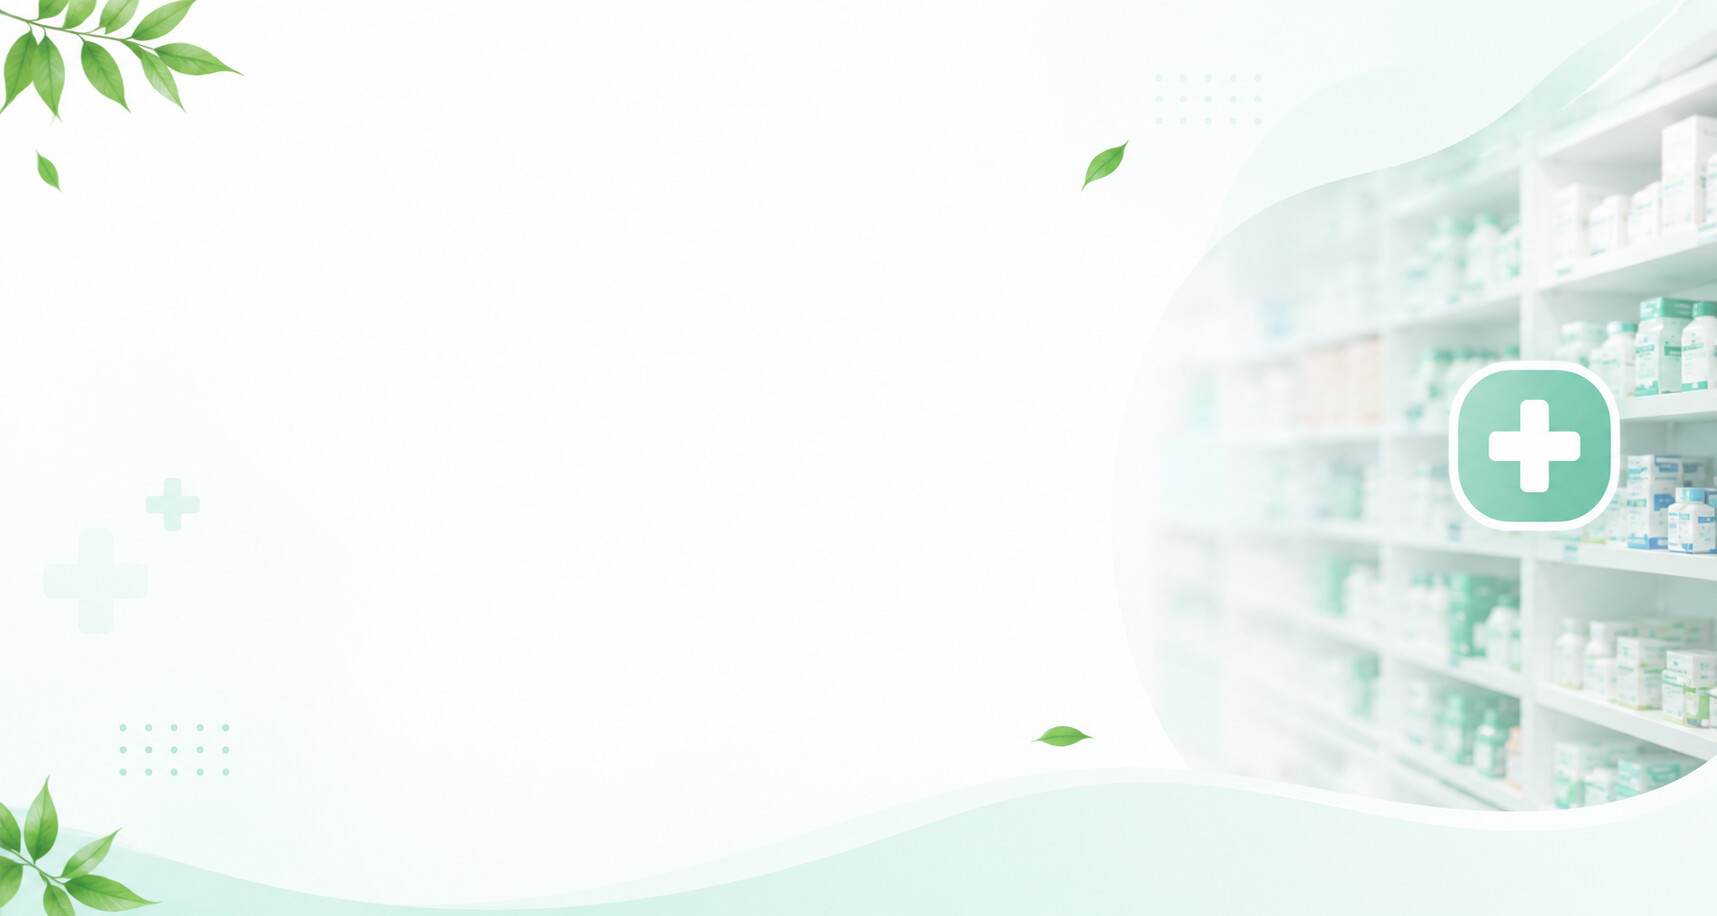
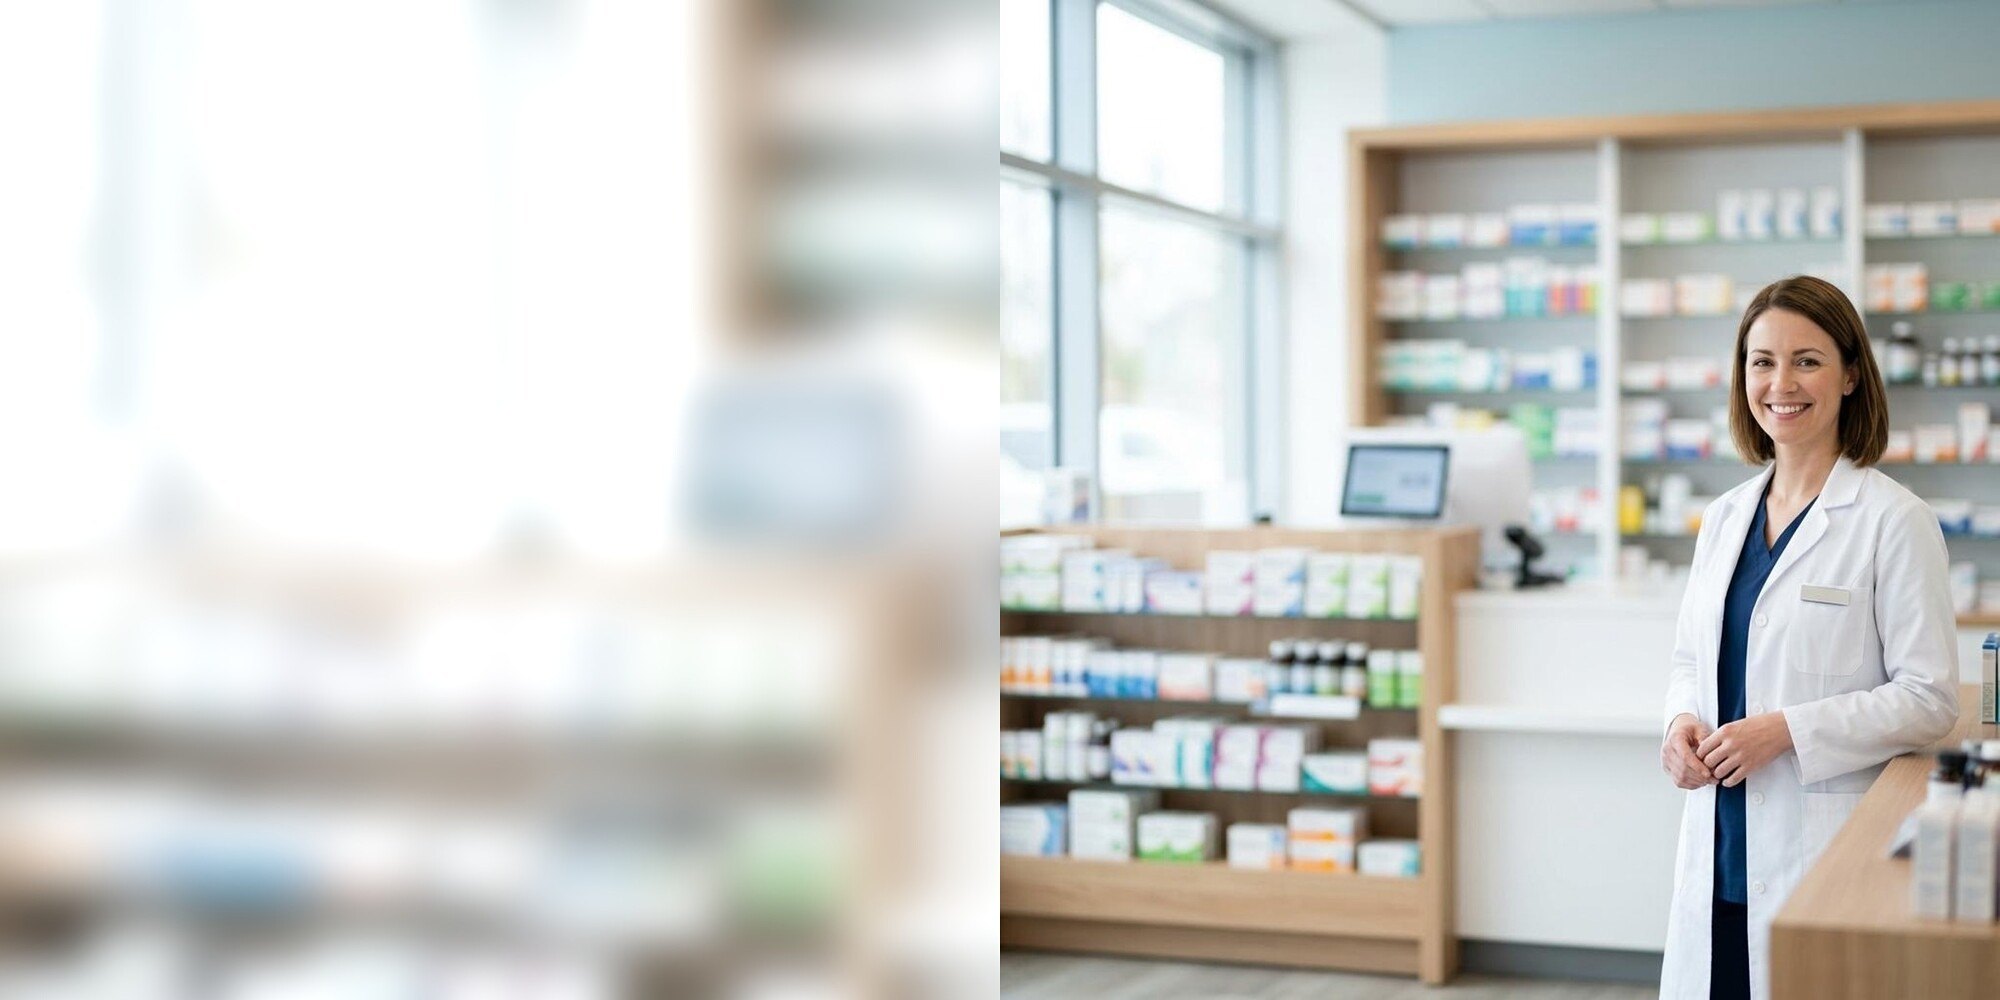
Update hero section with regenerated composited images and refine component styling
Replit-Commit-Author: Agent

diff --git a/artifacts/ayush-medico/src/components/Hero.tsx b/artifacts/ayush-medico/src/components/Hero.tsx
@@ -55,9 +55,10 @@ export default function Hero() {
       {/* Background */}
       <div className="absolute inset-0 bg-gradient-to-br from-background via-background to-primary/5 pointer-events-none" />
 
-      {/* Hero background photo — pharmacy interior, anchored to the right so the
-          left side stays clear for text. Overlaid with a soft white/green gradient
-          for readability, and faded out in dark mode via bg-background tokens. */}
+      {/* Hero background photo — realistic pharmacy interior with a pharmacist on
+          the right; the left side is naturally soft/blurred in the source photo so
+          it stays clear for text. Overlaid with a soft white/green gradient for
+          readability, and faded out in dark mode via bg-background tokens. */}
       <div className="absolute inset-0 overflow-hidden pointer-events-none">
         <picture>
           <source srcSet={heroBgWebp} type="image/webp" />
@@ -67,7 +68,7 @@ export default function Hero() {
             role="presentation"
             fetchPriority="high"
             decoding="async"
-            className="absolute inset-0 w-full h-full object-cover object-[78%_center] sm:object-[70%_center] lg:object-[65%_center] scale-105 lg:scale-100"
+            className="absolute inset-0 w-full h-full object-cover object-[96%_30%] sm:object-[92%_32%] lg:object-[96%_38%]"
           />
         </picture>
         {/* Left → right fade so text always sits on a clean, readable surface
@@ -206,7 +207,7 @@ export default function Hero() {
             <div className="relative w-full aspect-square max-w-[480px] mx-auto">
               <div className="absolute inset-8 rounded-3xl bg-gradient-to-br from-primary/20 via-accent/10 to-secondary/20 blur-2xl" />
 
-              <div className="absolute inset-0 rounded-3xl bg-gradient-to-br from-primary/5 via-card to-secondary/5 border border-border backdrop-blur-sm overflow-hidden shadow-2xl shadow-primary/10">
+              <div className="absolute inset-0 rounded-3xl bg-gradient-to-br from-white/15 via-white/10 to-primary/10 dark:from-background/25 dark:via-background/15 dark:to-background/25 border border-white/40 dark:border-border backdrop-blur-md overflow-hidden shadow-2xl shadow-primary/10">
                 <div className="absolute inset-0 flex items-center justify-center">
                   <div className="relative w-48 h-48">
                     <div className="absolute inset-y-8 left-1/2 -translate-x-1/2 w-16 rounded-2xl bg-gradient-to-b from-primary to-secondary opacity-20" />

diff --git a/.agents/memory/hero-photo-compositing.md b/.agents/memory/hero-photo-compositing.md
@@ -1,0 +1,25 @@
+---
+name: Hero background photo compositing (Ayush Medico)
+description: How the realistic hero background photo was built and tuned — generateImage output path quirk, manual ImageMagick compositing for wide layout, and object-position calibration.
+---
+
+`generateImage` in this monorepo writes to a path resolved against the **workspace root**, not the calling artifact's directory — passing `outputPath: "src/assets/..."` from context inside `artifacts/ayush-medico` still landed the file at `<workspace root>/src/assets/...`. Always pass an absolute-from-root path or immediately verify with `find`/`ls` and `mv` into the artifact folder.
+
+**Why:** the sandboxed image job doesn't inherit the "current artifact" concept — it just writes to the literal path relative to repo root.
+
+**How to apply:** after any `generateImage` call intended for a specific artifact, verify the file landed inside that artifact's directory before referencing it in code; move it if not.
+
+## Building a wide "text-left, subject-right" hero photo from a square AI photo
+
+`generateImage` does not reliably honor "wide 16:9" aspect-ratio phrasing in the prompt — a request for a pharmacist portrait came back square (1024x1024) despite explicit wide-aspect wording. Don't rely on prompt wording for aspect ratio; instead composite manually with ImageMagick:
+1. Make an ambient blurred backdrop: resize/crop the source to the full target canvas size, then `-blur` (large radius) + `-modulate`/`-brightness-contrast` to soften and brighten it — this becomes the "empty" left two-thirds.
+2. Resize the sharp source to the canvas height and place it at the right edge (`-gravity East`) on a canvas of the same target size.
+3. Build a feather mask: black canvas with a white rectangle covering the right portion, then heavily blurred (`-blur 0x160`) so the edge is a smooth gradient, not a hard line.
+4. Composite: `magick backdrop.jpg sharp-right-layer.jpg mask.png -compose over -composite result.jpg` — the mask acts as the alpha for blending the sharp layer over the blurred backdrop.
+This reliably produces a "60% clean/blurred, 40% sharp subject on the right" hero photo from any square AI-generated portrait, without needing prompt-engineering luck. `-gaussian-blur` is much slower than `-blur` at large radii and can time out on big canvases — use `-blur 0x<radius>` instead.
+
+## object-position calibration for a wide hero photo behind text+decorative UI
+
+When placing such a photo as a CSS `object-cover` background behind an existing decorative "glass card" element (a translucent mockup panel originally designed for a flat gradient, not a real photo), two adjustments were needed together, not just image cropping:
+- `object-position` needed values much closer to the image's right edge (~90-96%) than naive `(scaled-width - container-width)` math suggested, because the actual rendered section height differs from viewport height once padding is accounted for — tune by screenshotting at extremes (`object-right` vs `object-left`) first to find which direction reveals the subject, then narrow in, rather than computing from the DOM box math.
+- The decorative glass card overlapping the subject's face/body needs its background changed from a semi-opaque theme token (e.g. `via-card`) to a genuinely translucent white/background wash (e.g. `from-white/15 via-white/10`) plus `backdrop-blur-md`, so the real photo shows through it as an intentional glassmorphism effect instead of blocking the photo.

diff --git a/.agents/memory/MEMORY.md b/.agents/memory/MEMORY.md
@@ -19,3 +19,4 @@
 - [Ayush Medico fresh-env DB setup](ayush-medico-fresh-env-setup.md) — on a new Replit environment, DB tables don't exist until schema is pushed; data is empty until inventory sync runs; both must happen before dashboard shows real counts.
 - [Razorpay integration](razorpay-integration.md) — TEST MODE; HMAC verify on backend; Key ID safe for frontend; Key Secret in Replit Secrets; /api/payment routes; swap keys only to go live.
 - [wouter v3 Link renders its own anchor](wouter-v3-link-anchor.md) — don't wrap a manual `<a>` inside `<Link>` (v2 pattern); causes nested-anchor hydration errors and blank renders in v3+.
+- [Hero background photo compositing](hero-photo-compositing.md) — generateImage output path lands at workspace root not artifact dir; manual ImageMagick blur+feather-mask compositing for wide subject-right hero photos; object-position tuned empirically, not by DOM math.